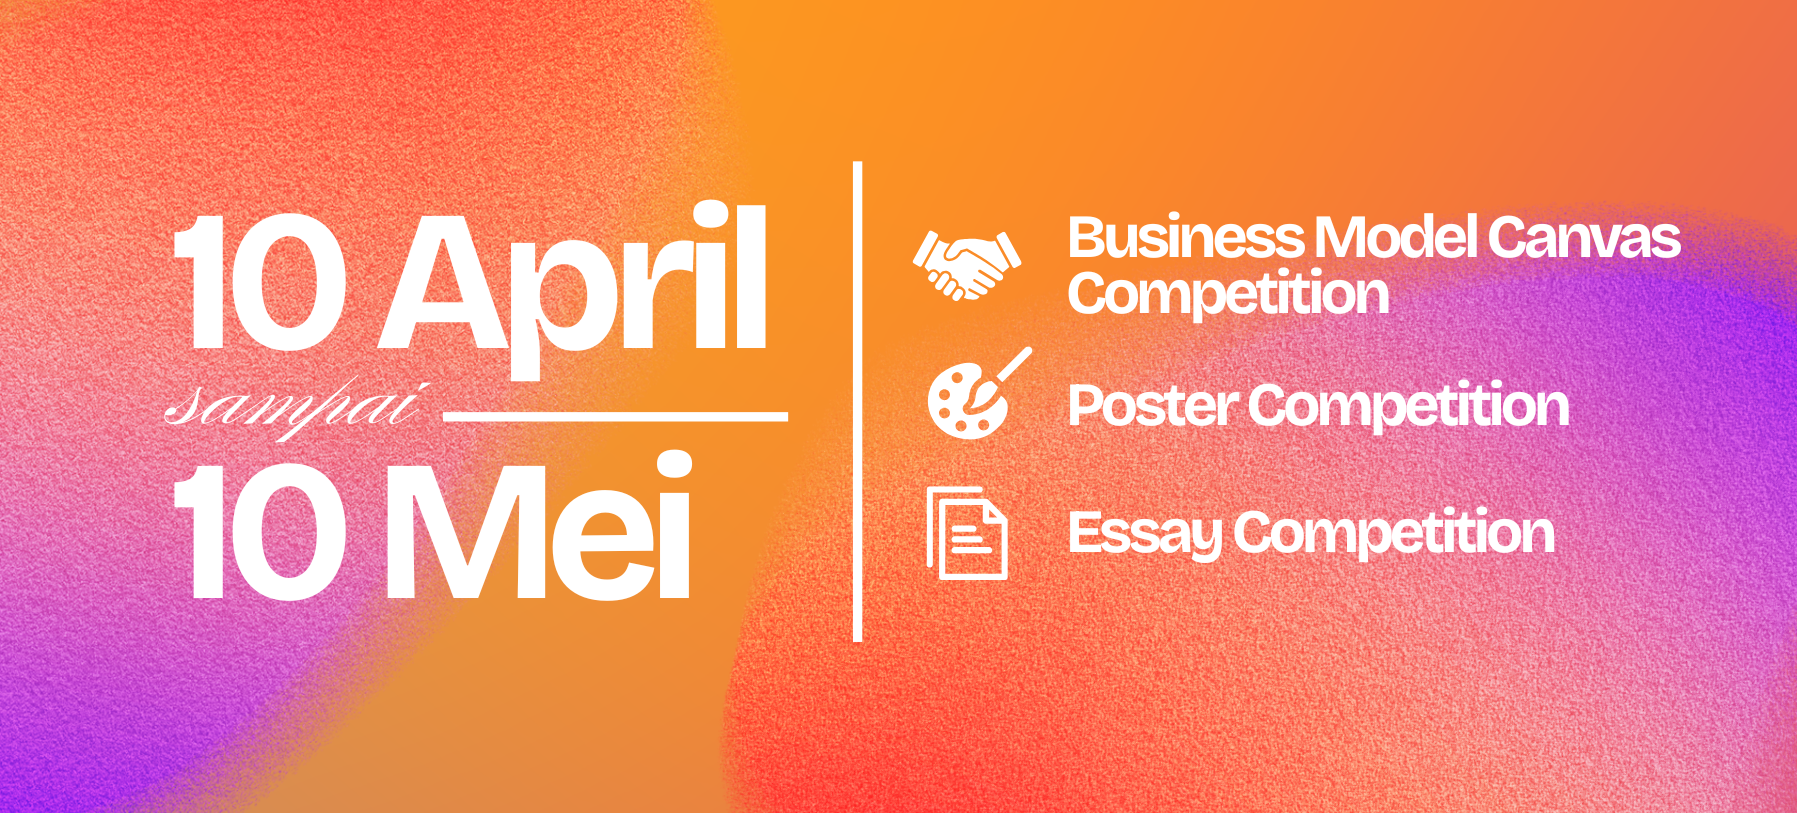
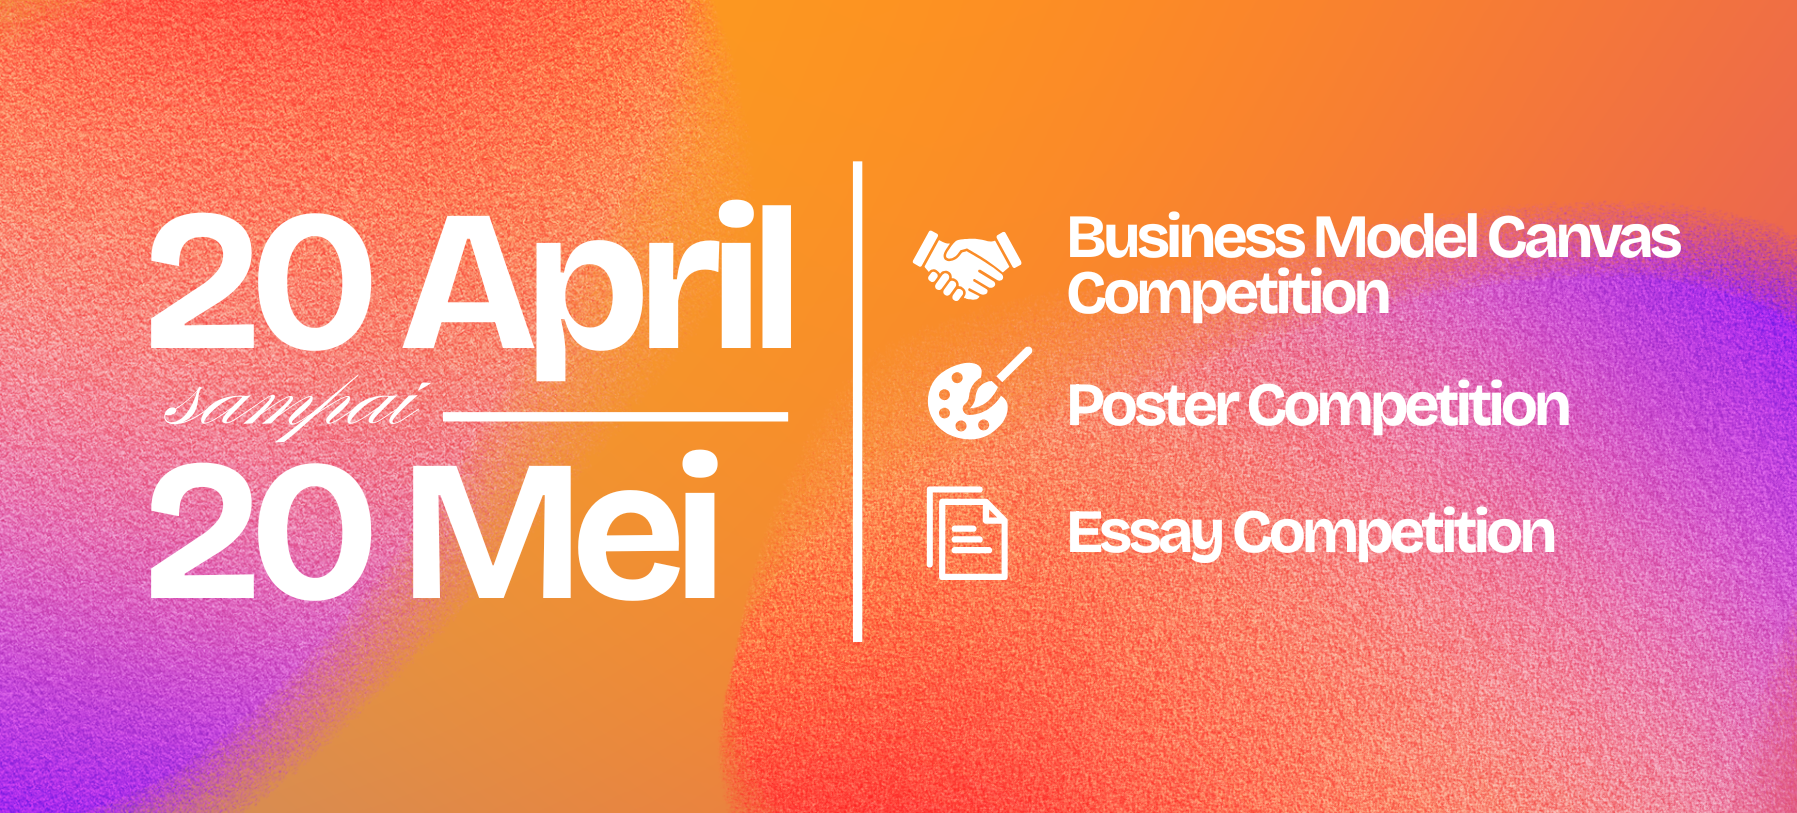
update last

Changed region(s): [[0.0623, 0.246, 0.4674, 0.492], [0.0623, 0.5535, 0.4051, 0.738]]

diff --git a/impacteers.html b/impacteers.html
@@ -102,7 +102,7 @@
                                 </li>
 
                                 <li>
-                                    <a target="_blank" href="https://wa.me/6285748828183">
+                                    <a target="_blank" href="https://wa.me/6282245869738">
                                         <i class="icofont-whatsapp"></i>
                                     </a>
                             </ul>
@@ -184,7 +184,7 @@
                         </li>
 
                         <li>
-                            <a target="_blank" href="https://wa.me/6285748828183">
+                            <a target="_blank" href="https://wa.me/6282245869738">
                                 <i class="icofont-whatsapp"></i>
                             </a>
                     </ul>
@@ -244,7 +244,7 @@
                                 <p>Sebagai bagian dari kontribusi dalam mendukung tercapainya visi Indonesia Emas 2045, UINC menghadirkan sebuah wadah kompetisi tingkat nasional bertajuk “Melompat Lebih Jauh dengan Inovasi: Menggenggam Masa Depan Indonesia Emas 2045”. Kompetisi ini terdiri dari tiga cabang lomba, yaitu esai, Business Model Canvas (BMC), dan poster. Ketiga cabang ini dirancang untuk mengasah kemampuan berpikir kritis, inovatif, dan komunikatif mahasiswa dalam menyampaikan ide-ide solutif yang relevan dengan masa depan bangsa.</p>
 
                            
-                                <a href="service-list.html" class="btn btn-lg btn-primary mt-6">Daftar Sekarang</a>
+                                <a href="https://linktr.ee/impacteers2025" class="btn btn-lg btn-primary mt-6">Daftar Sekarang</a>
                             </div>
                             <div class="image"><img src="assets/images/about/about-img-2.png" alt=""></div>
                         </div>
@@ -264,7 +264,7 @@
                             <img src="assets/images/icons/sm-user-icon.png" alt="">
                         </div>
                         <div class="content">
-                            <h2 class="number"><span class="counter">12</span></h2>
+                            <h2 class="number"><span class="counter">4</span></h2>
                             <span class="text">Update Pendaftar Esai</span>
                         </div>
                     </div>
@@ -275,7 +275,7 @@
                             <img src="assets/images/icons/sm-gear-icon.png" alt="">
                         </div>
                         <div class="content">
-                            <h2 class="number"><span class="counter">20</span>K</h2>
+                            <h2 class="number"><span class="counter">8</span></h2>
                             <span class="text">Update Pendaftar BMC</span>
                         </div>
                     </div>
@@ -286,7 +286,7 @@
                             <img src="assets/images/icons/sm-coffee-icon.png" alt="">
                         </div>
                         <div class="content">
-                            <h2 class="number"><span class="counter">15</span></h2>
+                            <h2 class="number"><span class="counter">9</span></h2>
                             <span class="text">Update Pendaftar Poster</span>
                         </div>
                     </div>
@@ -360,7 +360,7 @@
                                     </li>
                                     <li>
                                         <div class="text"><span class="text-marker">Phone:</span><a
-                                                href="https://wa.me/6285748828183">085748828183</a></div>
+                                                href="https://wa.me/6282245869738">082245869738</a></div>
                                     </li>
                                     <li>
                                         <div class="text"><span class="text-marker">Web:</span><a
@@ -452,7 +452,7 @@
                             <div class="footer-bottom-right">
                                 <ul class="footer-soacial">
                                     <li><a href="https://uincunesa.com" target="_blank">Website</a></li>
-                                    <li><a href="https://wa.me/6285748828183" target="_blank">Whatsapp</a></li>
+                                    <li><a href="https://wa.me/6282245869738" target="_blank">Whatsapp</a></li>
                                     <li><a href="https://www.instagram.com/uinc_official/" target="_blank">Instagram</a></li>
                                     <li><a href="mailto:uincunesa@gmail.com" target="_blank">Email</a></li>
                                 </ul>

diff --git a/index.html b/index.html
@@ -34,7 +34,7 @@
                         <div class="col-auto">
                             <!-- Start Header Top Left  -->
                             <div class="header-top-left">
-                                <p>Unesa Investment Nerwok Community</p>
+                                <p>Unesa Investment and Bussiness Nerwok Community</p>
                             </div>
                             <!-- End Header Top Left  -->
                         </div>
@@ -101,7 +101,7 @@
                                 </li>
 
                                 <li>
-                                    <a target="_blank" href="https://wa.me/6285748828183">
+                                    <a target="_blank" href="https://wa.me/6282245869738">
                                         <i class="icofont-whatsapp"></i>
                                     </a>
                             </ul>
@@ -184,7 +184,7 @@
                         </li>
 
                         <li>
-                            <a target="_blank" href="https://wa.me/6285748828183">
+                            <a target="_blank" href="https://wa.me/6282245869738">
                                 <i class="icofont-whatsapp"></i>
                             </a>
                     </ul>
@@ -881,7 +881,7 @@
                                     </li>
                                     <li>
                                         <div class="text"><span class="text-marker">Phone:</span><a
-                                                href="https://wa.me/6285748828183">085748828183</a></div>
+                                                href="https://wa.me/6282245869738">082245869738</a></div>
                                     </li>
                                     <li>
                                         <div class="text"><span class="text-marker">Web:</span><a
@@ -974,7 +974,7 @@
                             <div class="footer-bottom-right">
                                 <ul class="footer-soacial">
                                     <li><a href="https://uincunesa.com" target="_blank">Website</a></li>
-                                    <li><a href="https://wa.me/6285748828183" target="_blank">Whatsapp</a></li>
+                                    <li><a href="https://wa.me/6282245869738" target="_blank">Whatsapp</a></li>
                                     <li><a href="https://www.instagram.com/uinc_official/" target="_blank">Instagram</a></li>
                                     <li><a href="mailto:uincunesa@gmail.com" target="_blank">Email</a></li>
                                 </ul>

diff --git a/contact.html b/contact.html
@@ -102,7 +102,7 @@
                                 </li>
 
                                 <li>
-                                    <a target="_blank" href="https://wa.me/6285748828183">
+                                    <a target="_blank" href="https://wa.me/6282245869738">
                                         <i class="icofont-whatsapp"></i>
                                     </a>
                             </ul>
@@ -211,7 +211,7 @@
                                     </div>
                                     <div class="content">
                                         <span class="title-tag">phone</span>
-                                        <h3 class="info-text"><a href="https://wa.me/6285748828183">085748828183</a></h3>
+                                        <h3 class="info-text"><a href="https://wa.me/6282245869738">082245869738</a></h3>
                                     </div>
                                 </div>
                                  <!-- End Contact Info Single Item -->
@@ -395,7 +395,7 @@
                                     </li>
                                     <li>
                                         <div class="text"><span class="text-marker">Phone:</span><a
-                                                href="https://wa.me/6285748828183">085748828183</a></div>
+                                                href="https://wa.me/6282245869738">082245869738</a></div>
                                     </li>
                                     <li>
                                         <div class="text"><span class="text-marker">Web:</span><a
@@ -487,7 +487,7 @@
                             <div class="footer-bottom-right">
                                 <ul class="footer-soacial">
                                     <li><a href="https://uincunesa.com" target="_blank">Website</a></li>
-                                    <li><a href="https://wa.me/6285748828183" target="_blank">Whatsapp</a></li>
+                                    <li><a href="https://wa.me/6282245869738" target="_blank">Whatsapp</a></li>
                                     <li><a href="https://www.instagram.com/uinc_official/" target="_blank">Instagram</a></li>
                                     <li><a href="mailto:uincunesa@gmail.com" target="_blank">Email</a></li>
                                 </ul>

diff --git a/division.html b/division.html
@@ -101,7 +101,7 @@
                                 </li>
 
                                 <li>
-                                    <a target="_blank" href="https://wa.me/6285748828183">
+                                    <a target="_blank" href="https://wa.me/6282245869738">
                                         <i class="icofont-whatsapp"></i>
                                     </a>
                             </ul>
@@ -183,7 +183,7 @@
                         </li>
 
                         <li>
-                            <a target="_blank" href="https://wa.me/6285748828183">
+                            <a target="_blank" href="https://wa.me/6282245869738">
                                 <i class="icofont-whatsapp"></i>
                             </a>
                     </ul>
@@ -478,7 +478,7 @@
                                     </li>
                                     <li>
                                         <div class="text"><span class="text-marker">Phone:</span><a
-                                                href="https://wa.me/6285748828183">085748828183</a></div>
+                                                href="https://wa.me/6282245869738">082245869738</a></div>
                                     </li>
                                     <li>
                                         <div class="text"><span class="text-marker">Web:</span><a
@@ -570,7 +570,7 @@
                             <div class="footer-bottom-right">
                                 <ul class="footer-soacial">
                                     <li><a href="https://uincunesa.com" target="_blank">Website</a></li>
-                                    <li><a href="https://wa.me/6285748828183" target="_blank">Whatsapp</a></li>
+                                    <li><a href="https://wa.me/6282245869738" target="_blank">Whatsapp</a></li>
                                     <li><a href="https://www.instagram.com/uinc_official/" target="_blank">Instagram</a></li>
                                     <li><a href="mailto:uincunesa@gmail.com" target="_blank">Email</a></li>
                                 </ul>

diff --git a/education.html b/education.html
@@ -101,7 +101,7 @@
                                 </li>
 
                                 <li>
-                                    <a target="_blank" href="https://wa.me/6285748828183">
+                                    <a target="_blank" href="https://wa.me/6282245869738">
                                         <i class="icofont-whatsapp"></i>
                                     </a>
                             </ul>
@@ -183,7 +183,7 @@
                         </li>
 
                         <li>
-                            <a target="_blank" href="https://wa.me/6285748828183">
+                            <a target="_blank" href="https://wa.me/6282245869738">
                                 <i class="icofont-whatsapp"></i>
                             </a>
                     </ul>
@@ -522,7 +522,7 @@
                                     </li>
                                     <li>
                                         <div class="text"><span class="text-marker">Phone:</span><a
-                                                href="https://wa.me/6285748828183">085748828183</a></div>
+                                                href="https://wa.me/6282245869738">082245869738</a></div>
                                     </li>
                                     <li>
                                         <div class="text"><span class="text-marker">Web:</span><a
@@ -614,7 +614,7 @@
                             <div class="footer-bottom-right">
                                 <ul class="footer-soacial">
                                     <li><a href="https://uincunesa.com" target="_blank">Website</a></li>
-                                    <li><a href="https://wa.me/6285748828183" target="_blank">Whatsapp</a></li>
+                                    <li><a href="https://wa.me/6282245869738" target="_blank">Whatsapp</a></li>
                                     <li><a href="https://www.instagram.com/uinc_official/" target="_blank">Instagram</a></li>
                                     <li><a href="mailto:uincunesa@gmail.com" target="_blank">Email</a></li>
                                 </ul>

diff --git a/registration.html b/registration.html
@@ -101,7 +101,7 @@
                                 </li>
         
                                 <li>
-                                    <a target="_blank" href="https://wa.me/6285748828183">
+                                    <a target="_blank" href="https://wa.me/6282245869738">
                                         <i class="icofont-whatsapp"></i>
                                     </a>
                             </ul>
@@ -296,7 +296,7 @@
                                     </li>
                                     <li>
                                         <div class="text"><span class="text-marker">Phone:</span><a
-                                                href="https://wa.me/6285748828183">085748828183</a></div>
+                                                href="https://wa.me/6282245869738">082245869738</a></div>
                                     </li>
                                     <li>
                                         <div class="text"><span class="text-marker">Web:</span><a
@@ -388,7 +388,7 @@
                             <div class="footer-bottom-right">
                                 <ul class="footer-soacial">
                                     <li><a href="https://uincunesa.com" target="_blank">Website</a></li>
-                                    <li><a href="https://wa.me/6285748828183" target="_blank">Whatsapp</a></li>
+                                    <li><a href="https://wa.me/6282245869738" target="_blank">Whatsapp</a></li>
                                     <li><a href="https://www.instagram.com/uinc_official/" target="_blank">Instagram</a></li>
                                     <li><a href="mailto:uincunesa@gmail.com" target="_blank">Email</a></li>
                                 </ul>

diff --git a/blog.html b/blog.html
@@ -102,7 +102,7 @@
                                 </li>
 
                                 <li>
-                                    <a target="_blank" href="https://wa.me/6285748828183">
+                                    <a target="_blank" href="https://wa.me/6282245869738">
                                         <i class="icofont-whatsapp"></i>
                                     </a>
                             </ul>
@@ -430,7 +430,7 @@
                                     </li>
                                     <li>
                                         <div class="text"><span class="text-marker">Phone:</span><a
-                                                href="https://wa.me/6285748828183">085748828183</a></div>
+                                                href="https://wa.me/6282245869738">082245869738</a></div>
                                     </li>
                                     <li>
                                         <div class="text"><span class="text-marker">Web:</span><a
@@ -522,7 +522,7 @@
                             <div class="footer-bottom-right">
                                 <ul class="footer-soacial">
                                     <li><a href="https://uincunesa.com" target="_blank">Website</a></li>
-                                    <li><a href="https://wa.me/6285748828183" target="_blank">Whatsapp</a></li>
+                                    <li><a href="https://wa.me/6282245869738" target="_blank">Whatsapp</a></li>
                                     <li><a href="https://www.instagram.com/uinc_official/" target="_blank">Instagram</a></li>
                                     <li><a href="mailto:uincunesa@gmail.com" target="_blank">Email</a></li>
                                 </ul>
